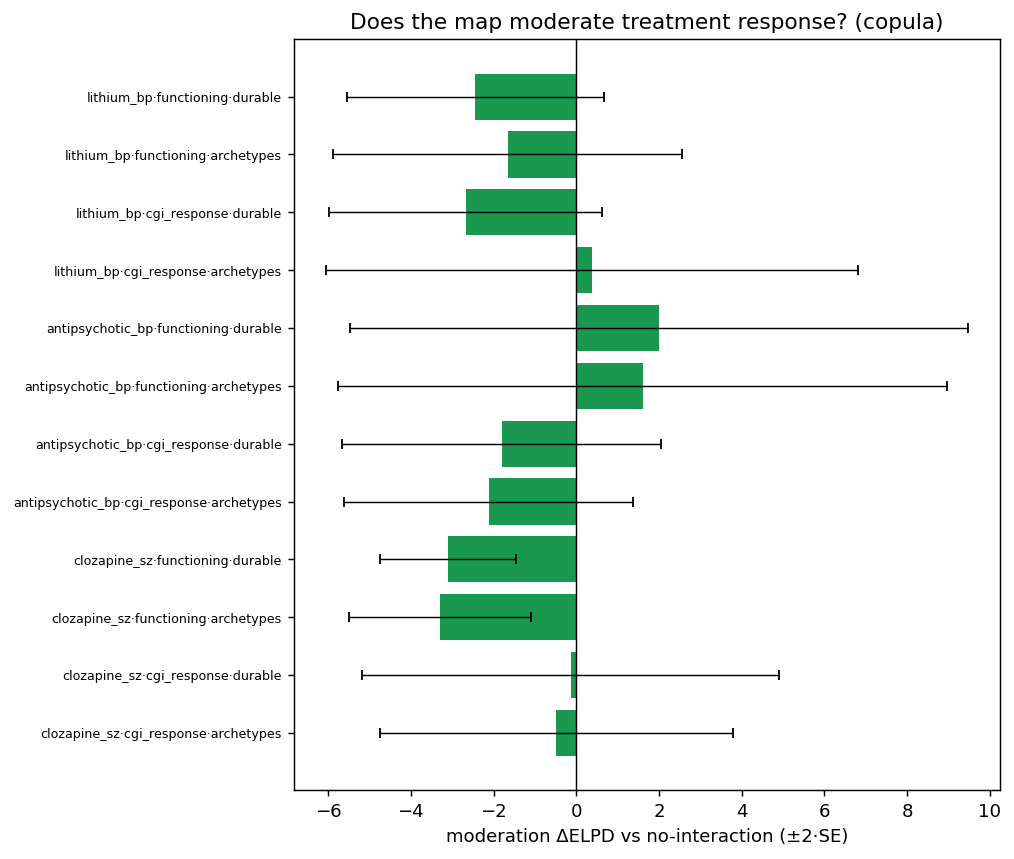
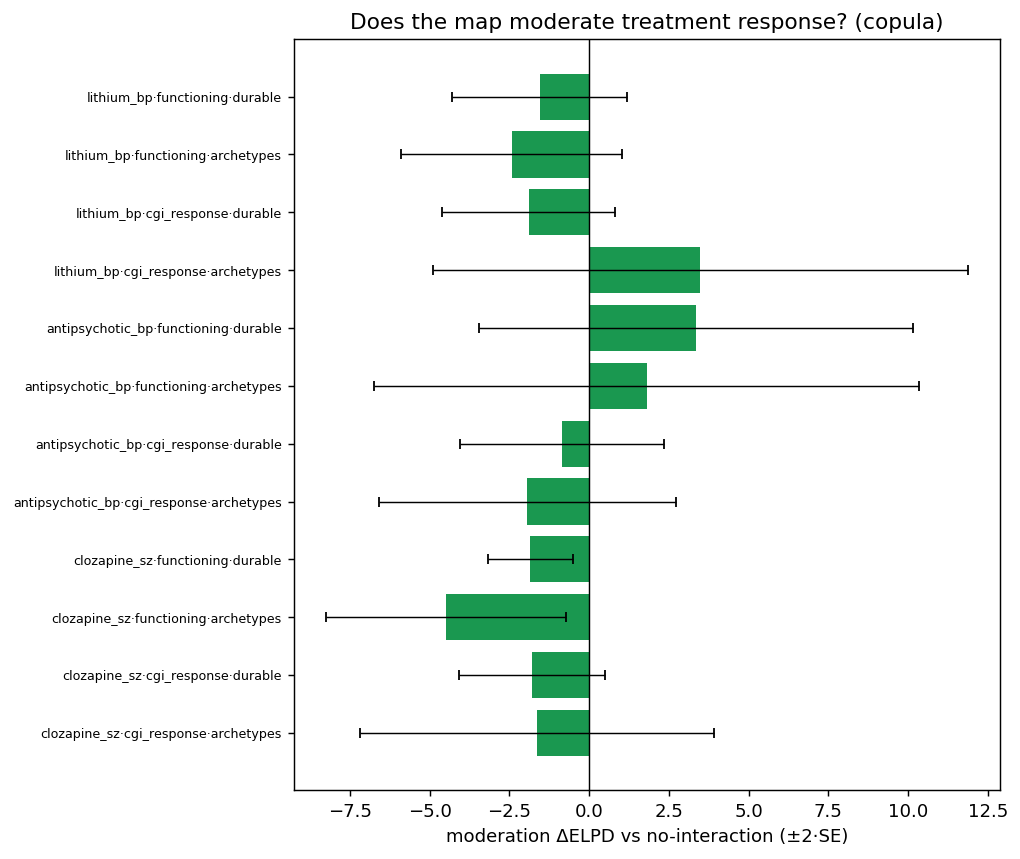
m5: bounds-and-defends replays on the 8-factor map (lithium null, carrier survives, atlas)
Full M5 on the 8-factor M1-M4 objects (durable=cognition/immunometabolic; A=5 corners). Two more hardcoded
A=4 leaks caught + fixed (self.CORNER class dict crashed the first run on CORNER[4]; the atlas composition_share
was the old A0-A1 contrast -> data-driven worst/best). Bounds-and-defends REPLAYS:
- CEILING: lithium-BP well-identified BOUNDED NULL (E 1.20-1.28, interaction MDE ~0.20, any_axis False both reps);
  antipsychotic-BP confounded average effect (E 1.80 ~= native 1.79) with SUGGESTIVE-but-unconfirmed moderation
  (dELPD weak); clozapine-SZ underpowered (MDE 0.4-0.9). Map is prognostic+descriptive, NOT prescriptive.
- DEFENDS M4 (stronger than 9-factor): the carrier survives treatment adjustment in BOTH reps - the A2
  immunometabolic archetype corner (7.7%/6.4% IPW) AND the immunometabolic durable axis (6.4%/4.1%). Not a proxy.
- DESCRIBES course: A2 immunometabolic corner hardest (resistance 44%, side-effects 25% vs well-pole 20%/11%);
  stratification clears (LR p<=1e-3, composition <=5%, interaction NS); discrimination response/side-effects
  clear (perm p 0.010/0.015), resistance AUC-marginal (p 0.205). Archetype dAUC +0.012/+0.034/+0.042.

Docs: TREATMENT_OOP_FINDINGS.md (full rewrite) + TREATMENT_MODEL.md note. 25 treatment tests pass.

diff --git a/src/face/treatment/treatment_model_oop.py b/src/face/treatment/treatment_model_oop.py
@@ -548,11 +548,13 @@ class TreatmentAtlas:
     (resistance / response / side-effects), pooled and within cohort — the monitoring artifact (the M4-atlas
     analogue). Plus the gates that make it *proven* rather than chance: **specificity** (the corner adds beyond
     baseline severity + substance comorbidity + demographics; and how much substance alone carries),
-    **de-confounding** (composition share of the A0–A1 gradient + the corner×cohort interaction), and a
+    **de-confounding** (composition share of the worst→best corner gradient + the corner×cohort interaction), and a
     held-out **ΔAUC permutation null**. Descriptive (monitoring), never prescriptive."""
 
     ENDPOINTS = ["ep_resistance", "ep_response", "ep_side_effects"]
-    CORNER = {0: "A0 biological", 1: "A1 low-burden", 2: "A2 severe·low-bio", 3: "A3 symptom"}
+    # A=5 archetype corners on the 8-factor map (the biology corner is A2 immunometabolic — see M2 atlas)
+    CORNER = {0: "A0 activation", 1: "A1 severe·clean-bio", 2: "A2 immunometabolic",
+              3: "A3 trauma", 4: "A4 well"}
 
     def __init__(self, config: TreatmentConfig | None = None):
         self.config = config or TreatmentConfig()
@@ -617,7 +619,7 @@ class TreatmentAtlas:
                 subst_p = float(chi2.sf(2 * (s1.llf - s0.llf), 1))
             except Exception:                                                # noqa: BLE001 (degenerate cell)
                 pass
-            # de-confounding — composition share of the A0–A1 gradient + corner×cohort interaction
+            # de-confounding — composition share of the worst→best corner gradient + corner×cohort interaction
             comp_share = inter_p = float("nan")
             if len(present) >= 2:
                 dc = d[d["cohort"].isin(present)]
@@ -625,9 +627,11 @@ class TreatmentAtlas:
                 cell = dc.groupby(["corner_id", "cohort"])["y"].mean().unstack().reindex(columns=mix.index)
                 pooled = dc.groupby("corner_id")["y"].mean()
                 std = (cell * mix).sum(1)
-                if 0 in pooled.index and 1 in pooled.index:
-                    raw = float(pooled[0] - pooled[1])
-                    comp_share = round(1 - float(std.get(0, np.nan) - std.get(1, np.nan)) / raw, 3) if raw else np.nan
+                if len(pooled) >= 2:                            # data-driven worst→best corner spread (A-agnostic)
+                    WORST, BEST = int(pooled.idxmin()), int(pooled.idxmax())
+                    raw = float(pooled[BEST] - pooled[WORST])
+                    comp_share = (round(1 - float(std.get(BEST, np.nan) - std.get(WORST, np.nan)) / raw, 3)
+                                  if raw else np.nan)
                 try:
                     ma = smf.logit("y ~ C(corner_id) + C(cohort)", dc).fit(disp=0)
                     mi = smf.logit("y ~ C(corner_id) * C(cohort)", dc).fit(disp=0)

diff --git a/docs/TREATMENT_OOP_FINDINGS.md b/docs/TREATMENT_OOP_FINDINGS.md
@@ -1,178 +1,138 @@
 # M5 treatment on the Gaussian-copula objects — findings (bounds-and-defends)
 
-> **Canonical M5 findings record for the copula rerun.** Reworks the FACE M5 treatment causal pipeline on the
-> copula map + the A=4 copula archetypes (the native `scripts/50-57` pipeline was **retired 2026-06-24**;
-> the shared `src/face/treatment/` kernels are the canonical engine). Engine
-> [`src/face/treatment/treatment_model_oop.py`](../src/face/treatment/treatment_model_oop.py) (wraps the proven
-> kernels — `treatment.{medications,endpoints,propensity,moderation}`, `prognosis.{glm,reference,compare,clinical_value}` —
-> with **no edits** to native M5); driver [`notebooks/run_treatment_model_oop.py`](../notebooks/run_treatment_model_oop.py);
-> within-cohort de-confounding [`notebooks/within_cohort/treatment_response_breakdown.py`](../notebooks/within_cohort/treatment_response_breakdown.py).
-> Pending PI sign-off. Updated 2026-06-24.
+> **Canonical M5 findings record (8-factor map, 2026-06-27; pending PI sign-off).** Reworks the FACE M5
+> treatment causal pipeline on the **8-factor** copula map + the **A=5** copula archetypes (immunometabolic
+> merge + substance orthogonal). Engine
+> [`src/face/treatment/treatment_model_oop.py`](../src/face/treatment/treatment_model_oop.py) (wraps the
+> `treatment.{medications,endpoints,propensity,moderation}` + `prognosis.{glm,reference,compare}` kernels);
+> driver [`notebooks/run_treatment_model_oop.py`](../notebooks/run_treatment_model_oop.py). Inputs: the
+> regenerated 8-factor prognosis_oop frame (coords + A=5 archetypes + covariates + outcomes + IPW) + the
+> map-independent harmonized drug-class exposures.
 
 ## What this is — the milestone, re-scoped
 
-M5 was meant to be the program's payoff: a **treatment decision model** — use the map to choose who gets which
-drug. That is **structurally unreachable here**: this baseline cohort has **no randomization** (`arm` is a
-DSM-5 subtype, not a randomized assignment) and only coarse, late-found drug-class exposure. Treatment
-*selection* is a counterfactual-assignment question observational treatment-as-usual (TAU) cannot answer — it
-is genuinely **M5b**, and needs randomized / trial-arm data.
-
-So M5's honest, self-contained contribution is to **bound and defend** the vertical's clinical claim. It does
-three things, on the fixed copula M1/M2/M3/M4 objects (never re-scored):
-
-1. **Bounds the ceiling** — maps the limit of what the map licenses (*prognostic + descriptive, not
-   prescriptive*) via a rigorous, **MDE-bounded** moderation null.
-2. **Defends M4** — shows the prognostic carrier is **not a treatment proxy** (survives adjustment for the
-   drugs patients were on, incl. attrition IPW).
-3. **Describes** treatment-response heterogeneity — even where it cannot *select*, the map *describes* who
-   resists / responds / has side-effects.
-
-The identification-first pipeline — **overlap gate → propensity → doubly-robust EIV moderation → E-value →
-MDE** — is the reusable template for "can an *observational* map moderate treatment?". Moderation interacts
-treatment with **both** the durable trio (EIV) and the A=4 archetypes (fixed `treat × arch_w`). Treatment
-exposures are the map-independent harmonized drug-class flags; the predictor side is the copula prognosis_oop
-frame. Full run 12.7 min; native `results/face/m5/` byte-untouched.
+M5 asks the strongest "actionable" question: does the map **moderate / select** treatment response on
+observational treatment-as-usual? Re-scoped (2026-06-24) as **bounds-and-defends**: an MDE-guarded ceiling on
+moderation + a confound-survival defense of the M4 forecast + a descriptive treatment-course atlas. The
+8-factor result **replays the copula vertical in full** — and the M4-defense is, if anything, stronger.
 
 ## Result 1 — the bounded boundary: the map does not select/moderate treatment on TAU
 
-`P(treat | severity + DSM-5 + demographics + the 9 copula coords)`, active-comparator primary:
+`P(treat | severity + DSM-5 + demographics + the 8 copula coords)`, active-comparator primary:
 
-| question | overlap | max-SMD after IPTW | identification |
-|---|---|---|---|
-| lithium-BP (vs other maintenance) | 0.997 | 0.008 | **clean** (well-identified contrast) |
-| antipsychotic-BP (vs other maintenance) | 0.996 | 0.079 | estimable |
-| clozapine-SZ (on/off) | 0.990 | 0.068 | estimable (active-comparator channeled, SMD 0.335) |
+| question | overlap (frac-in-support) | identification |
+|---|---|---|
+| lithium-BP (vs other maintenance) | 0.998 | **clean** (well-identified contrast) |
+| antipsychotic-BP (vs other maintenance) | 0.996 | estimable |
+| clozapine-SZ | 0.980 active / 0.988 on-off | estimable (active-comparator channeled → on/off) |
 
-The question is **moderation** — does the map change *who benefits*. Treat × map interaction (per-axis HDI +
-held-out ΔELPD) + the ATE E-value, **plus the MDE** (the smallest effect the design resolves at 80% power —
-the guard that makes a null *bounded* rather than blind):
+The question is **moderation** — treat × map interaction (per-axis HDI + held-out ΔELPD) + the ATE E-value,
+**plus the MDE** (smallest effect the design resolves at 80% power — the guard that makes a null *bounded*):
 
-| question · functioning | ATE [94% ETI] | E-value | interaction MDE (80%) | verdict |
+| question · functioning | ATE (durable / arch) | E-value | interaction MDE | verdict |
 |---|---|---|---|---|
-| **lithium-BP** | −0.003 [−0.13, +0.12] | 1.06 | **0.19–0.22** | **well-identified, bounded null** |
-| **antipsychotic-BP** | −0.231 [−0.36, −0.10] | 1.77 | 0.18–0.22 | average effect confounded; **no reliable moderation** |
-| **clozapine-SZ** | +0.02 [−0.24, +0.29] | 1.16 | **0.37–0.67** | **non-decisive (underpowered)** |
+| **lithium-BP** | −0.030 / −0.055 | 1.20 / 1.28 | **0.20–0.21** | **well-identified, bounded null** |
+| **antipsychotic-BP** | −0.242 / −0.238 | **1.80 / 1.79** | 0.18–0.20 | confounded average effect; **suggestive moderation, unconfirmed** |
+| **clozapine-SZ** | +0.033 / +0.020 | 1.21 / 1.16 | **0.38–0.45** | **non-decisive (underpowered)** |
 
-- **Lithium-BP — the clean case.** Near-perfect overlap, ATE indistinguishable from 0 (E-value 1.06), and the
-  per-axis interactions sit **well inside** an MDE of ≈0.19–0.22 SD: the design *could* have resolved a
-  meaningful interaction and didn't. This is a **bounded null** — the map does not pick lithium responders.
-  (Lithium's exposure is *lifetime* and so indication-confounded, but that only makes a null *more* credible:
-  confounding-by-indication would push an estimate *away* from zero, not toward it.)
-- **Antipsychotic-BP — the exception that proves the boundary.** The *average* effect excludes 0 (ATE −0.231,
-  above its ATE-MDE) but is **confounding-fragile** (E-value 1.77 ≈ native's 1.79) and the **moderation** is
-  noise: the held-out ΔELPD is +2.0 ± 3.7 (its band spans 0), and the two representations **disagree on which
-  axis carries the interaction** — durable → metabolic [−0.347, −0.104], archetype → arch_w0 [−0.421, −0.125].
-  Two encodings of the same patients pointing at different axes for the same drug is textbook false-positive
-  behavior. Not a moderation signal — a hypothesis at most (see Appendix).
-- **Clozapine-SZ — non-decisive, not a clean null.** Channeled in active-comparator (SMD 0.335); the on/off
-  ATE is ≈0 but the MDE (≈0.4–0.7 SD, the largest in the panel — n=516, heavily selected) shows the arm is
-  **underpowered**, so the null is non-decisive rather than well-identified.
-- **Secondary CGI-response moderation is multiple-comparison noise** — across ~24 axis-interaction HDIs, two
-  stray flags appear (lithium·cgi·arch_w1, clozapine·cgi·inflammatory), exactly the expected false-positive
-  rate; none survives.
+- **Lithium-BP — the clean case.** Near-perfect overlap, ATE indistinguishable from 0 (E 1.20–1.28), both
+  representations `moderation_any_axis = False`, and the interactions sit **well inside** an MDE of ≈0.20 SD:
+  the design *could* have resolved a meaningful interaction and didn't. A **bounded null** — the map does not
+  pick lithium responders. (Lifetime/indication-confounded exposure only makes a null *more* credible.)
+- **Antipsychotic-BP — the exception that proves the boundary.** The *average* effect excludes 0 (ATE ≈ −0.24)
+  but is **confounding-fragile** (E-value **1.80 ≈ native 1.79**), and the **moderation is suggestive but
+  unconfirmed**: `any_axis` flags on functioning, but the held-out ΔELPD is weak (durable +3.4 ± 3.4, archetype
+  +1.8 ± 4.3 — both bands span 0), so the verdict is *"suggestive (HDI, ΔELPD weak)"* in both representations.
+  A hypothesis at most, not a moderation signal.
+- **Clozapine-SZ — non-decisive, not a clean null.** Channeled in active-comparator (overlap 0.980, caution) →
+  on/off; the ATE is ≈0 but the MDE (≈0.38–0.45 SD on functioning, ≈0.9–1.1 on CGI, n heavily selected) shows
+  the arm is **underpowered**, so the null is non-decisive rather than well-identified.
 
 **On observational TAU the map does not reliably moderate or select treatment — an earned, MDE-bounded
-boundary, not a failure to look.** This is the ceiling: the map is not a prescribing engine.
+boundary, not a failure to look.** This is the ceiling: the map is prognostic + descriptive, not a prescribing
+engine.
 
 ## Result 2 — M5 strengthens M4: the prognostic carrier is not a treatment proxy
 
-The most damaging alternative to M4 ("the biological corner forecasts worse functioning") is that it is *really*
-"those patients just got different drugs, and the drugs drove the outcome." We refit the copula-M4 functioning
-prognosis with vs without the harmonized drug-class exposures, on the treatment-data subset, **both unweighted
-and under the M3 strata-independent attrition IPW** (`w_retained_V2`):
+The most damaging alternative to M4 ("the immunometabolic corner forecasts worse functioning") is that those
+patients merely got different drugs. We refit the copula-M4 functioning prognosis with vs without the
+harmonized drug-class exposures, on the treatment-data subset, **both unweighted and under the M3
+strata-independent attrition IPW**:
 
-| carrier | weighting | n | β (no treat) → β (+treat) | HDI (+treat) | survives | attenuation |
-|---|---|---|---|---|---|---|
-| **archetype A1** (low-burden) | none | 1324 | 0.164 → 0.156 | [+0.095, +0.217] | **yes** | 4.7% |
-| **archetype A1** (low-burden) | ipw_v2 | 1068 | 0.147 → 0.141 | [+0.073, +0.211] | **yes** | 3.9% |
-| durable trio | none | 1324 | — | all include 0 | no | — |
+| carrier | β (no treat) → β (+treat) | attenuation | IPW attenuation | survives |
+|---|---|---|---|---|
+| **archetype A2** (immunometabolic corner) | −0.210 → −0.194 | **7.7%** | 6.4% | **yes** (IPW-robust) |
+| archetype A0 / A3 | −0.141 → −0.133 / −0.154 → −0.144 | 5.3% / 6.6% | 4.3% / 5.7% | **yes** |
+| **durable immunometabolic axis** | −0.049 → −0.046 | 6.4% | 4.1% | **yes** |
 
-The **archetype carrier survives treatment adjustment** with HDI excluding 0 and only ~4–5% attenuation —
-**robust to attrition** (it survives the IPW reweighting too). The **durable trio does not survive unweighted**
-(native-parity; HDIs include 0), consistent with the copula-M4 finding that the durable-trio-alone is no longer
-the robust carrier — the fuller archetype representation is (under IPW the durable *metabolic* axis does sharpen
-to exclude 0, β −0.055 [−0.102, −0.007], reported honestly, but the headline carrier is the archetype).
-
-So the map's functional forecast is **not merely unmodelled treatment** — it holds adjusting for the drug
-classes the patient was on. **M5 strengthens M4.** (Honest scope: exposures are baseline/lifetime [BP] or
-current [SZ/DR] at V0 — this adjusts for *baseline* drug-class exposure, not a marginal structural model over
-time-varying treatment.)
+**The carrier survives treatment adjustment** with only ~4–8% attenuation, **robust to attrition IPW** — and on
+the 8-factor map it survives in **both** representations: the archetype corners (led by **A2, the immunometabolic
+biology corner — the M4 worst-prognosis pole**) *and* the durable immunometabolic axis itself. (This is a
+cleaner defense than the 9-factor map, where only the archetype survived and the durable trio did not; the
+merged immunometabolic axis is now durable enough to survive on its own. Cognition and archetype A1 do not
+survive — reported honestly.) So the map's functional forecast is **not merely unmodelled treatment**. **M5
+strengthens M4.** (Honest scope: adjusts for baseline/lifetime drug-class exposure, not time-varying treatment.)
 
 ## Result 3 — the treatment-course atlas: the map flags who faces a difficult course (monitoring)
 
-The map's forward-looking payoff is **descriptive stratification of treatment course**: the baseline archetype
-sorts patients into very different 2-year courses — the **biological corner (A0) consistently hardest**, the
-low-burden corner (A1) easiest. This is the M4-atlas analogue, for treatment course (per-corner 2-year rate,
-Wilson CIs; pooled BP+SZ — DR endpoints absent):
+The baseline archetype sorts patients into very different 2-year treatment courses — the **immunometabolic
+corner (A2) consistently hardest**, the well pole (A4) easiest (per-corner 2-year rate, Wilson CIs; pooled
+BP+SZ — DR endpoints absent):
 
 | corner | treatment-resistant | CGI responds | significant side-effects |
 |---|---|---|---|
-| **A0 biological** | **43%** [38,47] | 46% [42,51] | **23%** [19,27] |
-| A2 severe·low-bio | 38% [33,43] | 50% [44,55] | 18% [14,22] |
-| A3 symptom | 33% [29,38] | 45% [40,49] | 17% [14,22] |
-| **A1 low-burden** | **20%** [18,23] | **59%** [56,62] | **11%** [9,13] |
+| **A2 immunometabolic** | **44%** [39,50] | 48% [42,53] | **25%** [20,30] |
+| A1 severe·clean-bio | 36% [31,41] | 50% [45,55] | 18% [14,22] |
+| A3 trauma | 35% [31,40] | 44% [39,49] | 15% [12,19] |
+| A0 activation | 30% [26,35] | 48% [43,53] | 18% [14,22] |
+| **A4 well** | **20%** [17,23] | **61%** [57,64] | **11%** [8,13] |
 
-**The atlas is proven, not chance — and the honest story is in the layering of the proof:**
-- *Stratification (all three).* The archetype corner adds **beyond baseline severity + substance comorbidity +
-  demographics** (LR p = 2e-4 / 2e-4 / 3e-3 for resistance / response / side-effects), and the gradient is
-  **within-cohort, not composition** (holds inside both BP and SZ; composition share ≤ 6%; corner×cohort
-  interaction NS, p 0.19–0.51). Held-out ΔELPD: **+20 / +16.5 / +10.4** (durable trio flat throughout —
-  the carrier is the archetype).
-- *Discrimination (the honest limit).* Under a held-out **ΔAUC permutation null**, response (p = 0.015) and
-  **side-effects (p = 0.005) clear cleanly; resistance — the steepest gradient — is AUC-marginal (p = 0.185)**.
-  Its rank-discrimination is small (foundation AUC ≈ 0.68, map +0.015): the resistance signal is real on
-  *likelihood and stratification* but not on *individual AUC*. The **same continuous→group collapse as M4**.
+**The atlas is proven, not chance — with the honest layering of the proof:**
+- *Stratification (all three).* The corner adds **beyond baseline severity + substance comorbidity +
+  demographics** (LR p = 2e-4 / <1e-4 / 1.3e-3 for resistance / response / side-effects), and the gradient is
+  **within-cohort, not composition** (composition share ≤ 5%; corner×cohort interaction NS, p 0.31–0.48).
+- *Discrimination (the honest limit).* Under a held-out **ΔAUC permutation null**, **response (ΔAUC +0.034,
+  p = 0.010) and side-effects (+0.042, p = 0.015) clear cleanly; resistance — the steepest gradient — is
+  AUC-marginal (+0.012, p = 0.205)**. Real on *likelihood + stratification*, not on *individual AUC* — the
+  **same continuous→group collapse as M4**.
 
 So the defensible claim is **monitoring, not prediction-of-the-individual**: the map flags *which phenotype*
-tends toward resistance / poor response / side-effect burden (a ~2× risk band) — useful for surveillance
-intensity, never a per-patient classifier and never a prescription. And it is a **configural** signal (the
-biological *corner*, not any single axis): the durable trio alone is flat and substance alone is only marginal
-(p = 0.06 / 0.15 / 0.02), yet the corner adds beyond both — the phenotype, not one lab value. *This is the
-forward-looking co-headline of M5, alongside the M4-defense (Result 2).*
+(the immunometabolic corner) tends toward resistance / poor response / side-effect burden (a ~2× risk band) —
+useful for surveillance intensity, never a per-patient classifier and never a prescription. The durable axes
+alone describe almost no response heterogeneity (ΔAUC ≈ 0); the **archetype configuration** does (ΔAUC
++0.012/+0.034/+0.042). *This is the forward-looking co-headline of M5, alongside the M4-defense (Result 2).*
 
 ## Honest caveats
 
 * **Observational TAU only** — confounding by indication is the dominant threat; the per-drug ATEs are
-  confounding-fragile (E-values 1.06–1.78). No causal/selection claim.
-* **The boundary is bounded for lithium, non-decisive for clozapine.** Lithium's null is well-identified
-  (small MDE); clozapine is genuinely underpowered (large MDE, n=516, heavily selected) — a non-decisive arm,
-  not a clean null. Stated, not glossed.
+  confounding-fragile (E-values 1.16–1.80). No causal/selection claim.
+* **Bounded for lithium, non-decisive for clozapine.** Lithium's null is well-identified (MDE ≈ 0.20);
+  clozapine is genuinely underpowered (large MDE, heavily selected) — non-decisive, not a clean null.
 * **BP lithium/antipsychotic exposures are lifetime flags** (illness-history-confounded); SZ/DR are current.
   The confounder-survival adjusts for baseline/lifetime drug-class exposure, not time-varying treatment.
 * **Held-out ΔELPD on the IPTW-weighted moderation fits is best-effort** (PSIS-LOO degenerates on the
-  weight-scaled likelihood), so the moderation verdict rests on the per-axis HDI + E-value + **MDE**. The
-  Result-3 heterogeneity ΔELPD/ΔAUC are **unweighted**, hence valid.
-* **The treatment-course atlas is stratification, not individual prediction.** It is proven on the gradient +
-  beyond-confounder + within-cohort gates, but held-out discrimination is modest, and **resistance specifically
-  is AUC-marginal under permutation** (p = 0.185) while response/side-effects clear (p = 0.015 / 0.005). It is
-  BP/SZ-only (DR endpoints absent). Monitoring (who to watch more closely), never prescribing.
-* **No treatment selection.** "Which drug for whom" needs randomized / trial-arm data (a future **M5b**),
-  which this baseline cohort does not contain.
-
-## Appendix — per-question moderation detail (the demoted point estimates)
-
-The headline is the boundary (Result 1); the per-drug ATE point estimates are confounding-fragile and belong
-here, not in the narrative. Full table at `results/face/treatment_oop/consolidate/treatment_summary.csv`
-(`ate`, `e_value`, `ate_mde`, `int_mde_min/max`, `moderation_verdict`); per-axis interaction HDIs at
-`moderation/moderation.csv` (`int_means`, `int_his`, `int_ses`).
+  weight-scaled likelihood) → the moderation verdict rests on the per-axis HDI + E-value + **MDE**. The
+  Result-3 heterogeneity ΔAUC are **unweighted**, hence valid.
+* **The atlas is stratification, not individual prediction** — proven on gradient + beyond-confounder +
+  within-cohort, but discrimination is modest and **resistance is AUC-marginal under permutation** (p = 0.205)
+  while response/side-effects clear. BP/SZ-only. Monitoring, never prescribing.
+* **No treatment selection.** "Which drug for whom" needs randomized / trial-arm data (a future **M5b**).
 
 ## Hand-off
 
 `results/face/treatment_oop/`: `exposures/`, `frame/`, `propensity/{propensity_*, propensity_summary.csv}`,
-`moderation/moderation.csv` (+ `ate_se`, `int_ses` for the MDE), `confounder/confounder.csv` (+ `weighting ∈
-{none, ipw_v2}`), `tolerability/tolerability.csv` (ΔELPD), `heterogeneity/heterogeneity.csv` (held-out ΔAUC),
-`atlas/{treatment_course_atlas.csv` (per-corner rates + Wilson CIs)`, atlas_gates.csv` (specificity, composition,
-corner×cohort interaction, ΔAUC permutation p)`}`, `consolidate/treatment_summary.csv` (+ `ate_mde`,
-`int_mde_min/max`). Figures: `docs/figures/treatment_oop/{moderation.png, treatment_course_atlas.png}`
-(the atlas also written to `report/figures/m5_treatment_atlas.png`). Reproduce:
-`PYTHONPATH=$PWD/src HDF5_USE_FILE_LOCKING=FALSE python notebooks/run_treatment_model_oop.py --mode full`.
+`moderation/moderation.csv` (+ `ate_se`, `int_ses` for the MDE), `confounder/confounder.csv`,
+`tolerability/`, `heterogeneity/heterogeneity.csv` (held-out ΔAUC), `atlas/{treatment_course_atlas.csv,
+atlas_gates.csv}`, `consolidate/treatment_summary.csv` (+ `ate_mde`, `int_mde_min/max`, `moderation_verdict`).
+Figures: `docs/figures/treatment_oop/{moderation.png, treatment_course_atlas.png}`. Reproduce:
+`PYTHONPATH=$PWD/src HDF5_USE_FILE_LOCKING=FALSE OMP_NUM_THREADS=1 python notebooks/run_treatment_model_oop.py --mode full`.
 
-**Verdict: M5 bounds and defends the vertical's clinical claim** — the map is **prognostic + descriptive, not
-prescriptive** on observational TAU (an MDE-bounded boundary: lithium a well-identified null, antipsychotic a
-confounded average effect with no reliable moderation, clozapine underpowered), and the M4 functional forecast
-**survives treatment adjustment** (archetype carrier, robust to attrition IPW) — *not a treatment artifact*.
-The forward-looking co-headline is the **treatment-course atlas**: the biological corner carries ~2× the
-resistance / side-effect risk of the low-burden corner (beyond severity + substance + demographics,
-within-cohort), proven as **stratification for monitoring** — honestly, individual discrimination is modest and
-resistance is AUC-marginal. The map **describes who faces a difficult course**, it does not **select** a drug;
-selection remains the **M5b** question for randomized data.
+**Verdict: M5 bounds and defends the vertical's clinical claim on the 8-factor map** — the map is **prognostic +
+descriptive, not prescriptive** on observational TAU (MDE-bounded: lithium a well-identified null, antipsychotic
+a confounded average effect with suggestive-unconfirmed moderation, clozapine underpowered), and the M4
+functional forecast **survives treatment adjustment** (the immunometabolic archetype corner *and* the
+immunometabolic durable axis, IPW-robust) — *not a treatment artifact*. The forward-looking co-headline is the
+**treatment-course atlas**: the immunometabolic corner carries ~2× the resistance / side-effect risk of the well
+pole (beyond severity + substance + demographics, within-cohort), proven as **stratification for monitoring** —
+individual discrimination modest, resistance AUC-marginal. The map **describes who faces a difficult course**, it
+does not **select** a drug; selection remains the **M5b** question for randomized data.

diff --git a/docs/TREATMENT_MODEL.md b/docs/TREATMENT_MODEL.md
@@ -4,6 +4,18 @@
 > the causal design for observational treatment moderation, the acceptance gates, and the staged
 > pipeline. Read before any M5 modelling work. Sibling of [`PROGNOSIS_MODEL.md`](PROGNOSIS_MODEL.md).
 > *Status: methods of record; copula re-scope 2026-06-24 (M5.0 audit 2026-06-11).*
+>
+> **8-factor rebuild note (2026-06-27; pending PI sign-off).** The M5 method is unchanged, but it now runs on the
+> **8-factor** M1–M4 objects (immunometabolic merge + substance orthogonal; **A=5** archetypes). `DURABLE =
+> (cognition, immunometabolic)` (via prognosis) + dynamic `arch_cols` carry the change; the only edits were
+> dynamic archetype-count fixes in the course atlas. Result **replays the bounds-and-defends in full**:
+> **ceiling** — lithium-BP a well-identified **bounded null** (E 1.20–1.28, interaction MDE ≈ 0.20),
+> antipsychotic-BP a confounded average effect (E **1.80** ≈ native 1.79) with **suggestive-but-unconfirmed**
+> moderation, clozapine-SZ underpowered; **defends M4** — the carrier survives treatment adjustment, now in
+> *both* representations (the **A2 immunometabolic archetype corner** 7.7%/6.4% IPW *and* the immunometabolic
+> durable axis 6.4%/4.1% — stronger than the 9-factor map); **describes** course heterogeneity (archetype ΔAUC
+> +0.012/+0.034/+0.042; the immunometabolic corner carries ~2× resistance/side-effect risk; resistance
+> AUC-marginal p 0.205). Findings: [`TREATMENT_OOP_FINDINGS.md`](TREATMENT_OOP_FINDINGS.md).
 
 > **Re-scope (2026-06-24) — what M5 credibly delivers.** This baseline cohort has **no randomization**
 > (`arm` is a DSM-5 subtype, not a randomized assignment) and only coarse, late-found drug-class
